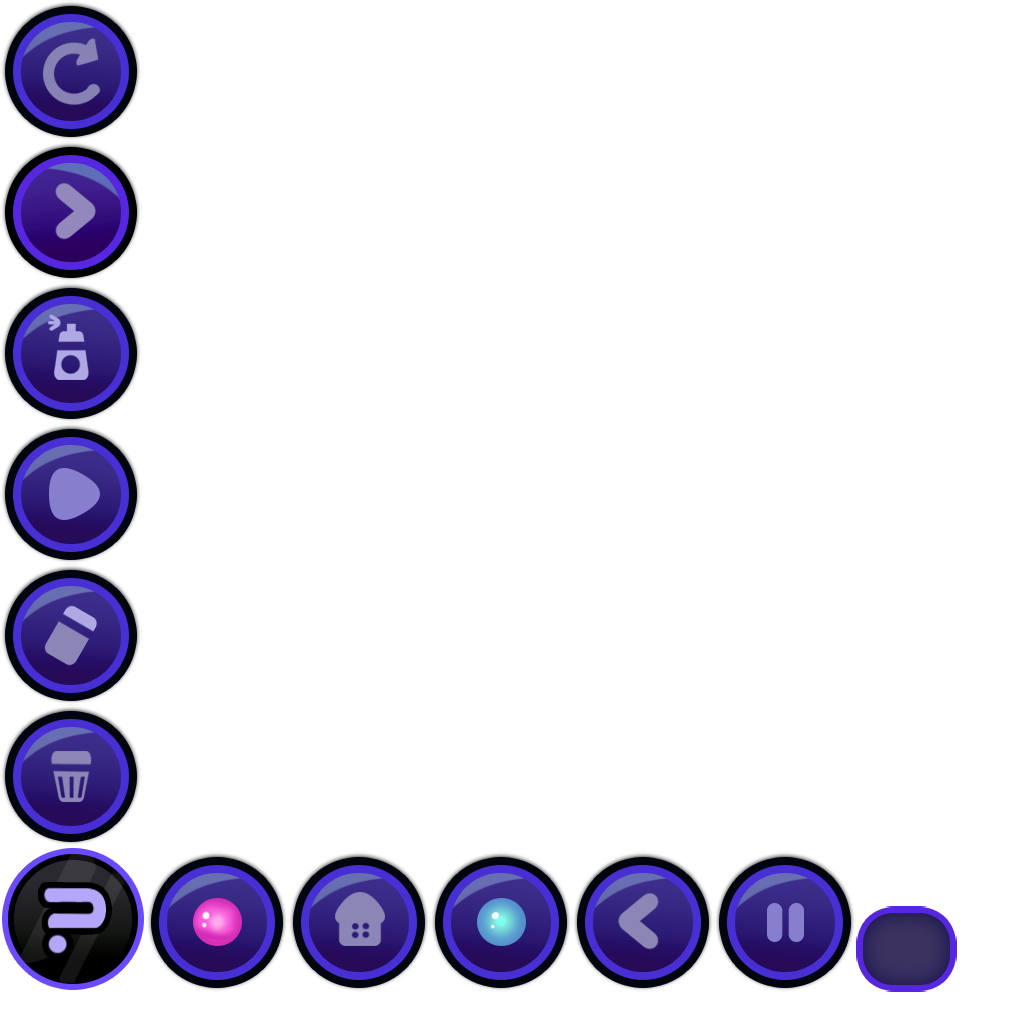
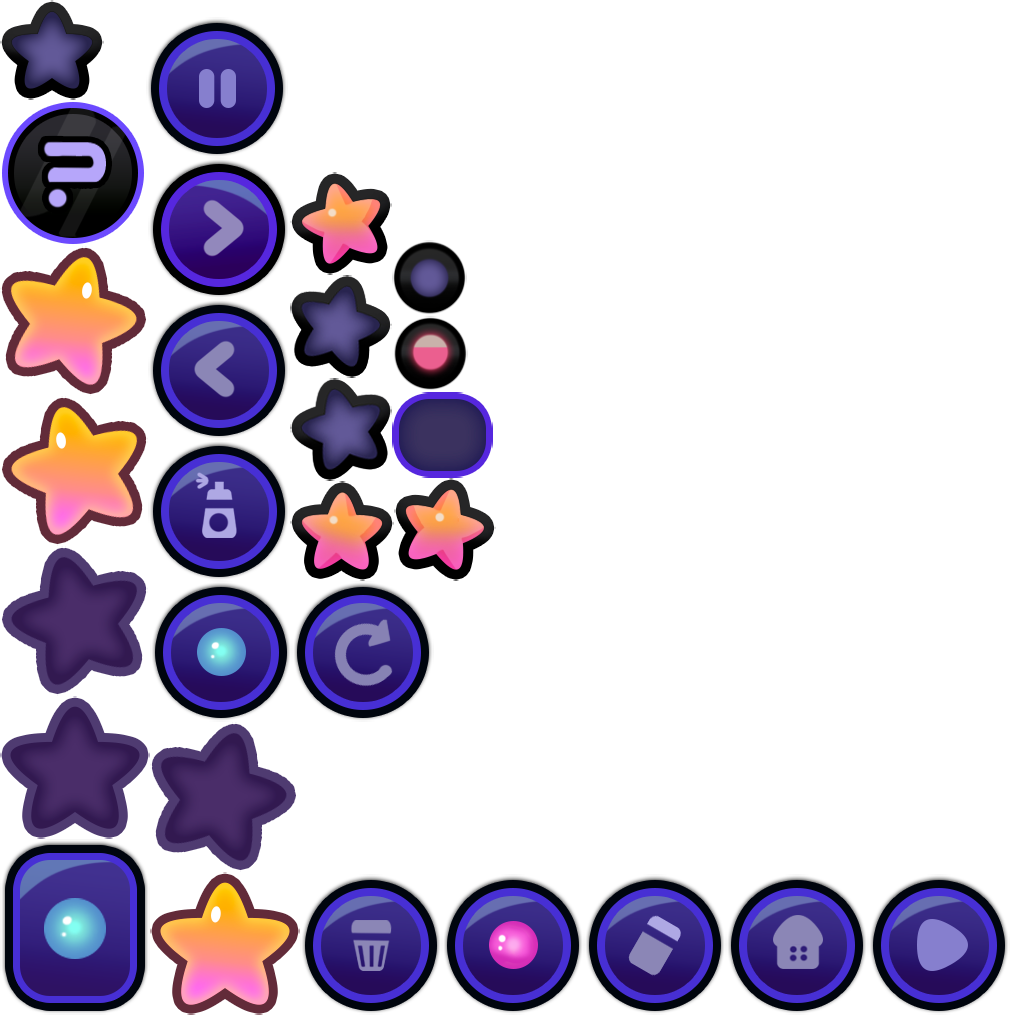
new buttons texture added

diff --git a/core/src/main/java/steelUnicorn/laplacity/ui/levels/LevelsTab.java b/core/src/main/java/steelUnicorn/laplacity/ui/levels/LevelsTab.java
@@ -4,7 +4,6 @@ import static steelUnicorn.laplacity.core.Globals.UI_WORLD_HEIGHT;
 import static steelUnicorn.laplacity.core.Globals.UI_WORLD_WIDTH;
 import static steelUnicorn.laplacity.core.Globals.nameMainMenuScreen;
 import static steelUnicorn.laplacity.core.Globals.nameSlideOut;
-import static steelUnicorn.laplacity.core.LaplacityAssets.TEXSKIN;
 import static steelUnicorn.laplacity.core.LaplacityAssets.sectionLevels;
 
 import com.badlogic.gdx.graphics.Color;
@@ -54,7 +53,7 @@ public class LevelsTab extends MainMenuTab {
         });
         //Description
         row();
-        addDescription("Levels:", skin);
+        addDescription("Levels", skin);
         //Sections
         row();
         sectionCell = addSections(skin);
@@ -91,7 +90,7 @@ public class LevelsTab extends MainMenuTab {
 
         public LevelsNav(Skin skin) {
             defaults().space(LevelsTab.tabSpace);
-            leftArrow = new ImageButton(TEXSKIN.get("leftarrow", ImageButton.ImageButtonStyle.class));
+            leftArrow = new ImageButton(skin.get("leftarrow", ImageButton.ImageButtonStyle.class));
             leftArrow.addListener(new ChangeListener() {
                 @Override
                 public void changed(ChangeEvent event, Actor actor) {
@@ -104,13 +103,13 @@ public class LevelsTab extends MainMenuTab {
             });
             add(leftArrow).size(arrowSize);
 
-            sectionName = new Label("Section 00" + LevelsTab.this.currentSection, TEXSKIN);
+            sectionName = new Label("Section 00" + LevelsTab.this.currentSection, skin);
             sectionName.setColor(Color.WHITE);
             sectionName.setAlignment(Align.center);
             add(sectionName).size(sectionName.getPrefWidth(), sectionName.getPrefHeight());
             updateSectionName();
 
-            rightArrow = new ImageButton(TEXSKIN.get("rightarrow", ImageButton.ImageButtonStyle.class));
+            rightArrow = new ImageButton(skin.get("rightarrow", ImageButton.ImageButtonStyle.class));
             rightArrow.addListener(new ChangeListener() {
                 @Override
                 public void changed(ChangeEvent event, Actor actor) {

diff --git a/core/src/main/java/steelUnicorn/laplacity/ui/levels/LevelSection.java b/core/src/main/java/steelUnicorn/laplacity/ui/levels/LevelSection.java
@@ -20,8 +20,8 @@ import com.badlogic.gdx.utils.Array;
  * Используется в классе LevelsTab для отображения уровней для выбора
  */
 public class LevelSection extends Table {
-    public static final float lvlBtnSize = UI_WORLD_WIDTH * 0.04f;
-    private static final int levelsRow = 4;
+    public static final float lvlBtnScale = 0.6f;
+    private static final int levelsRow = 5;
     public static float tabSpace = UI_WORLD_HEIGHT * 0.03f;
 
     private final int sectionNumber;  //section number greater than pathsSize by 1
@@ -41,16 +41,14 @@ public class LevelSection extends Table {
         if (sectionNumber - 1 < sectionLevels.size) {
             Array<Texture> lvlImages = sectionLevels.get(sectionNumber - 1);
 
-            defaults().size(lvlBtnSize)
-                    .space(tabSpace);
-
             for (int i = 1; i <= lvlImages.size; i++) {
-                LevelButton btn = new LevelButton(String.valueOf(i), skin, lvlImages.get(i - 1),
-                        i, sectionNumber);
+                LevelButton btn = new LevelButton(String.valueOf(i), skin, "Level",
+                        lvlImages.get(i - 1), i, sectionNumber);
                 btn.setName("level" + i);
                 btn.addListener(LevelButton.listener);
 
-                add(btn);
+                add(btn).space(tabSpace)
+                        .size(btn.getPrefWidth() * lvlBtnScale, btn.getPrefHeight() * lvlBtnScale);
                 //new Row
                 if (i % levelsRow == 0 && i != lvlImages.size) {
                     row();

diff --git a/core/src/main/java/steelUnicorn/laplacity/screens/LevelsScreen.java b/core/src/main/java/steelUnicorn/laplacity/screens/LevelsScreen.java
@@ -2,6 +2,7 @@ package steelUnicorn.laplacity.screens;
 
 import static steelUnicorn.laplacity.core.LaplacityAssets.MAIN_MENU_BACKGROUND;
 import static steelUnicorn.laplacity.core.LaplacityAssets.SKIN;
+import static steelUnicorn.laplacity.core.LaplacityAssets.TEXSKIN;
 
 import com.badlogic.gdx.Gdx;
 import com.badlogic.gdx.graphics.GL20;
@@ -44,7 +45,7 @@ public class LevelsScreen extends ManagedScreen {
         root.setFillParent(true);
         levelStage.addActor(root);
 
-        levelsTab = new LevelsTab(SKIN);
+        levelsTab = new LevelsTab(TEXSKIN);
 
         root.add(levelsTab).growY().padTop(MainMenu.menuTopPad);
     }

diff --git a/core/src/main/java/steelUnicorn/laplacity/ui/levels/LevelButton.java b/core/src/main/java/steelUnicorn/laplacity/ui/levels/LevelButton.java
@@ -41,9 +41,9 @@ public class LevelButton extends TextButton {
 		}
 	};
 
-	public LevelButton(String text, Skin skin, Texture lvlImg,
-					   int levelNumber, int sectionNumber) {
-		super(text, skin);
+	public LevelButton(String text, Skin skin, String styleName,
+					   Texture lvlImg, int levelNumber, int sectionNumber) {
+		super(text, skin, styleName);
 		this.lvlImg = lvlImg;
 		this.levelNumber = levelNumber;
 		this.sectionNumber = sectionNumber;
